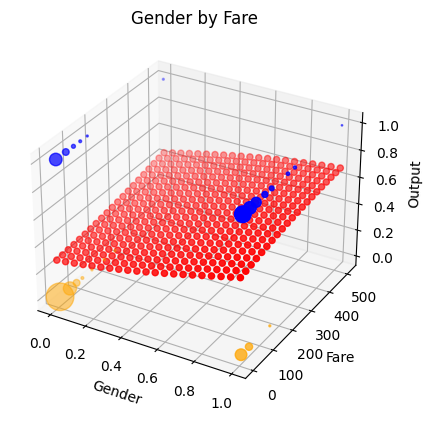
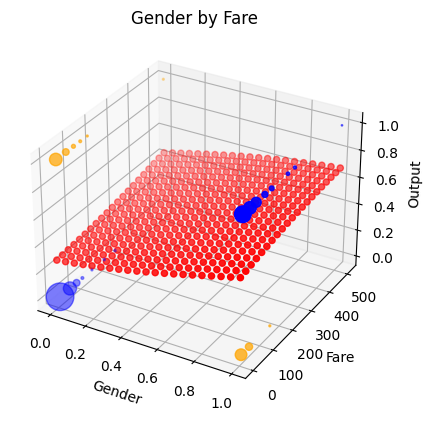
Externalized graphing funcs

diff --git a/Report/report.html b/Report/report.html
@@ -38,25 +38,25 @@
 <div style="border: 2px;border-color: black;border-radius: 5px;border-style: solid; padding-left: 10px; margin-bottom: 5px">
 <h3>High Variance Graph</h3>
 <img src="4img.png"</img>
-<p>Color mode is based on point output in data file. Blue is 1, orange is 0.</p>
+<p>Color mode is based on point value vs net output given those input variables. Blue is 1, orange is 0.</p>
 </div>
 <div style="border: 2px;border-color: black;border-radius: 5px;border-style: solid; padding-left: 10px; margin-bottom: 5px">
 <h3>High Variance Graph</h3>
 <img src="5img.png"</img>
-<p>Color mode is based on point output in data file. Blue is 1, orange is 0.</p>
+<p>Color mode is based on point value vs net output given those input variables. Blue is 1, orange is 0.</p>
 <p>Ignored variables: Gender, Fare</p>
 </div>
 <div style="border: 2px;border-color: black;border-radius: 5px;border-style: solid; padding-left: 10px; margin-bottom: 5px">
 <h3>High Prediction Graph</h3>
 <img src="6img.png"</img>
 <p>This gets 78.68% of the data items correct.This is 99.29% of the max accuracy.</p>
-<p>Color mode is based on point output in data file. Blue is 1, orange is 0.</p>
+<p>Color mode is based on point value vs net output given those input variables. Blue is 1, orange is 0.</p>
 </div>
 <div style="border: 2px;border-color: black;border-radius: 5px;border-style: solid; padding-left: 10px; margin-bottom: 5px">
 <h3>High Prediction Graph</h3>
 <img src="7img.png"</img>
 <p>This gets 61.73% of the data items correct.This is 77.9% of the max accuracy.</p>
-<p>Color mode is based on point output in data file. Blue is 1, orange is 0.</p>
+<p>Color mode is based on point value vs net output given those input variables. Blue is 1, orange is 0.</p>
 <p>Ignored variables: Gender, Fare</p>
 </div>
 <div style="border: 2px;border-color: black;border-radius: 5px;border-style: solid; padding-left: 10px; margin-bottom: 5px">

diff --git a/ReportGenerator.py b/ReportGenerator.py
@@ -1,5 +1,6 @@
 import MachineLearning.GeneticNets as gn
 import MachineLearning.GeneticEvolution as ge
+import MachineLearning.Graphing as MLGraphing
 import PythonExtended.Graphing as graph
 #import PythonExtended.DataStructures as d
 import PythonExtended.Math as m
@@ -34,68 +35,8 @@ class datapoint:
                 abs(self.z - dp.z) < zdif and
                 (self.color == dp.color or not useColor))
 
-class graphpoint:
-    def __init__(self, x, y, z, color="blue", rawjson = None):
-        self.x = x
-        self.y = y
-        self.z = z
-
-        self.color = color
-        self.posicount = z
-        self.count = 1
-
-        if rawjson is None:
-            rawjson = {}
-        self.rawjson = [rawjson]
-
 #endregion
 #region data management functions
-#order of output colors
-colors = [[(255,0,0), 'red'],
-          [(0,128,0), 'green'],
-          [(255,255,0), 'yellow'],
-          [(0,0,0), 'black']]
-
-def clump(points, xdif, ydif, zdif, percent=False):
-    outpoints = []
-    for pointa in points:
-        found = False
-        for pointb in outpoints:
-            if (abs(pointa.x - pointb.x) < xdif and
-                abs(pointa.y - pointb.y) < ydif and
-                (abs(pointa.z - pointb.z) < zdif or percent)):
-                found = True
-                pointb.count += 1
-                pointb.posicount += pointa.z
-                pointb.rawjson.append(pointa.rawjson[0])
-        if not found:
-            outpoints.append(graphpoint(pointa.x, pointa.y, pointa.z, pointa.color))
-    return outpoints
-
-def colorize(points, colormode, percents, netclassification=None, net=None, testmode="SimplePosi"):
-    for point in points:
-        if percents:
-            point.z = (point.posicount / point.count) * 100
-        if colormode == "none":
-            point.color = "blue"
-        elif colormode == "data-file":
-            if percents:
-                point.color = (1 - m.scale(0, point.z, 100, 0, 1),
-                               0.5 - m.scale(0, point.z, 100, 0, 0.5),
-                               m.scale(0, point.z, 100, 0, 1))
-            else:
-                if point.z > 0:
-                    point.color = "blue"
-                else:
-                    point.color = "orange"
-        elif colormode == "score":
-            # TODO - score coloring
-            pass
-        elif colormode == "net-score":
-            correct = ge.Test_Obj(net, point.rawjson, testmode) / len(point.rawjson)
-            point.color = (1 - correct, (1 - correct)*0.5, correct)
-        else:
-            warnings.warn("Color mode not found: " + str(colormode))
 
 def colorinfotext(colormode, percents):
     out = ""
@@ -109,113 +50,6 @@ def colorinfotext(colormode, percents):
         out += '<p>Data points are clumped into percents.'
     return out
 #endregion
-
-#region GraphingFuncs
-def GraphNet(net, xaxis, yaxis, fig):
-    zaxis = ' & '.join(net.outputs)
-    xs = []
-    ys = []
-    zs = []
-    outcolors = []
-    count = 0
-    for name in net.outputs:
-        xvals = []
-        yvals = []
-        zvals = []
-        outcolors.append(colors[count][1])
-        count += 1
-        x = -1
-        while x <= 1:
-            y = -1
-            while y <= 1:
-                xvals.append(x)
-                yvals.append(y)
-
-                net.reset()
-                for inName in net.inputs:
-                    if inName == xaxis:
-                        net.setNode(inName, x)
-                    elif inName == yaxis:
-                        net.setNode(inName, y)
-                    else:
-                        net.setNode(inName, 0)
-                net.process()
-                zvals.append(net.getNode(name))
-                y += 0.1
-            x += 0.1
-        xs.append(xvals)
-        ys.append(yvals)
-        zs.append(zvals)
-    graph.multiGraph3D(xs, ys, zs, outcolors, xaxis, yaxis, zaxis, xaxis + " by " + yaxis, plt=fig)
-
-def GraphNetData(net, data, xaxis, yaxis, zaxis, defvalue, useclump, usepercents, colormode, fig):
-    #region handle net
-    netxvals = []
-    netyvals = []
-    netzvals = []
-
-    xmin = data["inputs"][xaxis]["min"]
-    xmax = data["inputs"][xaxis]["max"]
-    ymin = data["inputs"][yaxis]["min"]
-    ymax = data["inputs"][yaxis]["max"]
-    zmin = data["outputs"][zaxis]["min"]
-    zmax = data["outputs"][zaxis]["max"]
-
-    x = -1
-    while x <= 1:
-        y = -1
-        while y <= 1:
-            netxvals.append(m.scale(-1, x, 1, xmin, xmax))
-            netyvals.append(m.scale(-1, y, 1, ymin, ymax))
-            net.reset()
-            for inName in net.inputs:
-                if inName == xaxis:
-                    net.setNode(inName, x)
-                elif inName == yaxis:
-                    net.setNode(inName, y)
-                else:
-                    net.setNode(inName, defvalue)
-            net.process()
-            if usepercents:
-                netzvals.append(m.scale(-1, net.getNode(zaxis), 1, 0, 100))
-            else:
-                netzvals.append(m.scale(-1, net.getNode(zaxis), 1, zmin, zmax))
-
-            y += 0.1
-        x += 0.1
-    #endregion
-    #region handle data
-    datapoints = []
-    for item in data["data"]:
-        datapoints.append(graphpoint(item[xaxis], item[yaxis], item[zaxis]))
-
-    if useclump or usepercents:
-        datapoints = clump(datapoints, (xmax-xmin)/20, (ymax-ymin)/20, (zmax-zmin)/20, usepercents)
-
-    colorize(datapoints, colormode, usepercents)
-
-    dataxvals = []
-    datayvals = []
-    datazvals = []
-    datacolorvals = []
-    datasizevals = []
-    for point in datapoints:
-        dataxvals.append(point.x)
-        datayvals.append(point.y)
-        datazvals.append(point.z)
-        datacolorvals.append(point.color)
-        datasizevals.append(point.count)
-
-    size = None
-    if useclump or usepercents:
-        size = datasizevals
-
-    if usepercents:
-        zaxis += "%"
-
-    #endregion
-    graph.Graph3D(netxvals,netyvals,netzvals,"red", xaxis, yaxis, zaxis, xaxis + " by " + yaxis, plt=fig)
-    graph.Graph3D(dataxvals, datayvals, datazvals, datacolorvals, xaxis, yaxis, zaxis, xaxis + " by " + yaxis, plt=fig, s=size)
 
 def GraphData3Axis(data, xaxis, yaxis, zaxis, coloraxis, useclump, fig):
     xvals = []
@@ -392,7 +226,7 @@ def GenerateCustomNetGraph(net, config, directory, fname):
         warnings.warn("Custom net graph missing configuration")
     fig = pyplot.figure()
     plt = fig.add_subplot(111, projection='3d')
-    GraphNet(net, config["x"], config["y"], plt)
+    MLGraphing.GraphNet(net, config["x"], config["y"], plt)
     if config["customize"]:
         pyplot.show()
     fig.savefig(directory + '/' + fname, bbox_inches = 'tight')
@@ -404,7 +238,7 @@ def GenerateCustomNetGraph(net, config, directory, fname):
 def GenerateCustomNetDataGraph(net, data, config, directory, fname):
     fig = pyplot.figure()
     plt = fig.add_subplot(111, projection='3d')
-    GraphNetData(net, data, config["x"], config["y"], list(net.outputs.keys())[0], 0, config["clump"], config["percents"], config["color"], plt)
+    MLGraphing.GraphNetData(net, data, config["x"], config["y"], net.classifier_output, 0, config["clump"], config["percents"], config["color"], plt)
     if config["customize"]:
         pyplot.show()
     fig.savefig(directory + '/' + fname, bbox_inches='tight')
@@ -446,7 +280,7 @@ def GenerateHighVarianceGraph(net, data, config, directory, fname):
                 else:
                     net.setNode(name, 0)
             net.process()
-            outputs.append(net.getOutput()[list(net.outputs.keys())[0]])
+            outputs.append(net.getOutput()[net.classifier_output])
             x += 0.1
         dif = max(outputs) - min(outputs)
         if dif > best:
@@ -463,9 +297,9 @@ def GenerateHighVarianceGraph(net, data, config, directory, fname):
     fig = pyplot.figure()
     plt = fig.add_subplot(111, projection='3d')
     if not config["add-data"]:
-        GraphNet(net, xaxis, yaxis, plt)
+        MLGraphing.GraphNet(net, xaxis, yaxis, plt)
     else:
-        GraphNetData(net, data, xaxis, yaxis, list(net.outputs.keys())[0], 0, config["clump"], config["percents"], config["color"], plt)
+        MLGraphing.GraphNetData(net, data, xaxis, yaxis, net.classifier_output, 0, config["clump"], config["percents"], config["color"], plt)
     if config["customize"]:
         pyplot.show()
     fig.savefig(directory + '/' + fname, bbox_inches='tight')
@@ -522,9 +356,9 @@ def GenerateHighPredictionGraph(net, data, config, directory, fname):
     plt = fig.add_subplot(111, projection='3d')
 
     if not config["add-data"]:
-        GraphNet(net, xaxis, yaxis, plt)
+        MLGraphing.GraphNet(net, xaxis, yaxis, plt)
     else:
-        GraphNetData(net, data, xaxis, yaxis, list(net.outputs.keys())[0], 0, config["clump"], config["percents"], config["color"], plt)
+        MLGraphing.GraphNetData(net, data, xaxis, yaxis, net.classifier_output, 0, config["clump"], config["percents"], config["color"], plt)
 
     if config["customize"]:
         pyplot.show()
@@ -564,7 +398,7 @@ def GenerateNonLinearVarianceGraph(net, data, config, directory, fname):
                 else:
                     net.setNode(name, 0)
             net.process()
-            outputs.append(net.getOutput()[list(net.outputs.keys())[0]])
+            outputs.append(net.getOutput()[net.classifier_output])
             x += 0.1
         variance.append(max(outputs)-min(outputs))
         inputs.append(inputa)
@@ -623,9 +457,9 @@ def GenerateNonLinearVarianceGraph(net, data, config, directory, fname):
     fig = pyplot.figure()
     plt = fig.add_subplot(111, projection='3d')
     if not config["add-data"]:
-        GraphNet(net, xaxis, yaxis, plt)
+        MLGraphing.GraphNet(net, xaxis, yaxis, plt)
     else:
-        GraphNetData(net, data, xaxis, yaxis, list(net.outputs.keys())[0], 0, config["clump"], config["percents"], config["color"], plt)
+        MLGraphing.GraphNetData(net, data, xaxis, yaxis, net.classifier_output, 0, config["clump"], config["percents"], config["color"], plt)
 
     if config["customize"]:
         pyplot.show()
@@ -723,7 +557,10 @@ def GenerateReport():
             warnings.warn("Line " + str(linenumber) + " " + line + " not in defconfig")
             return
 
-        localconfig = defconfig[line]
+        localconfig = {}
+        for key in defconfig[line]:
+            localconfig[key] = defconfig[line][key]
+
         for key in custconfig:
             if key in localconfig and custconfig[key] != "default":
                 localconfig[key] = custconfig[key]
@@ -754,7 +591,7 @@ def GenerateReport():
         elif line == "data":
             file += GenerateDataInfo(net, data, localconfig)
         elif line == "data-predictability-graph":
-            file += GenerateDataPredictionGraph(data, list(net.outputs.keys())[0], localconfig, fname, str(linenumber)+"img.png")
+            file += GenerateDataPredictionGraph(data, net.classifier_output, localconfig, fname, str(linenumber)+"img.png")
         elif line == "custom-net-graph":
             file += GenerateCustomNetGraph(net, localconfig, fname, str(linenumber)+"img.png")
         elif line == "custom-net-data-graph":
